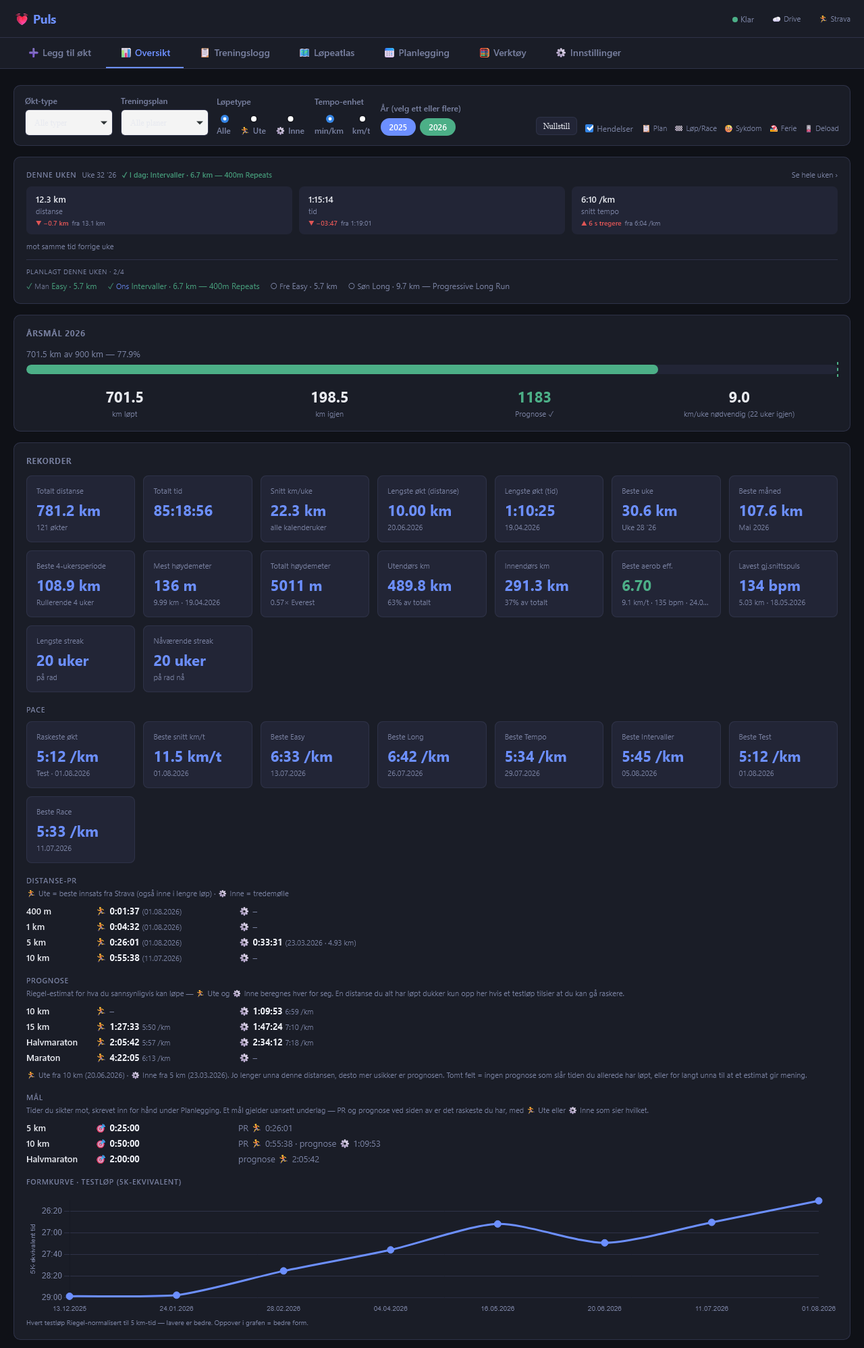
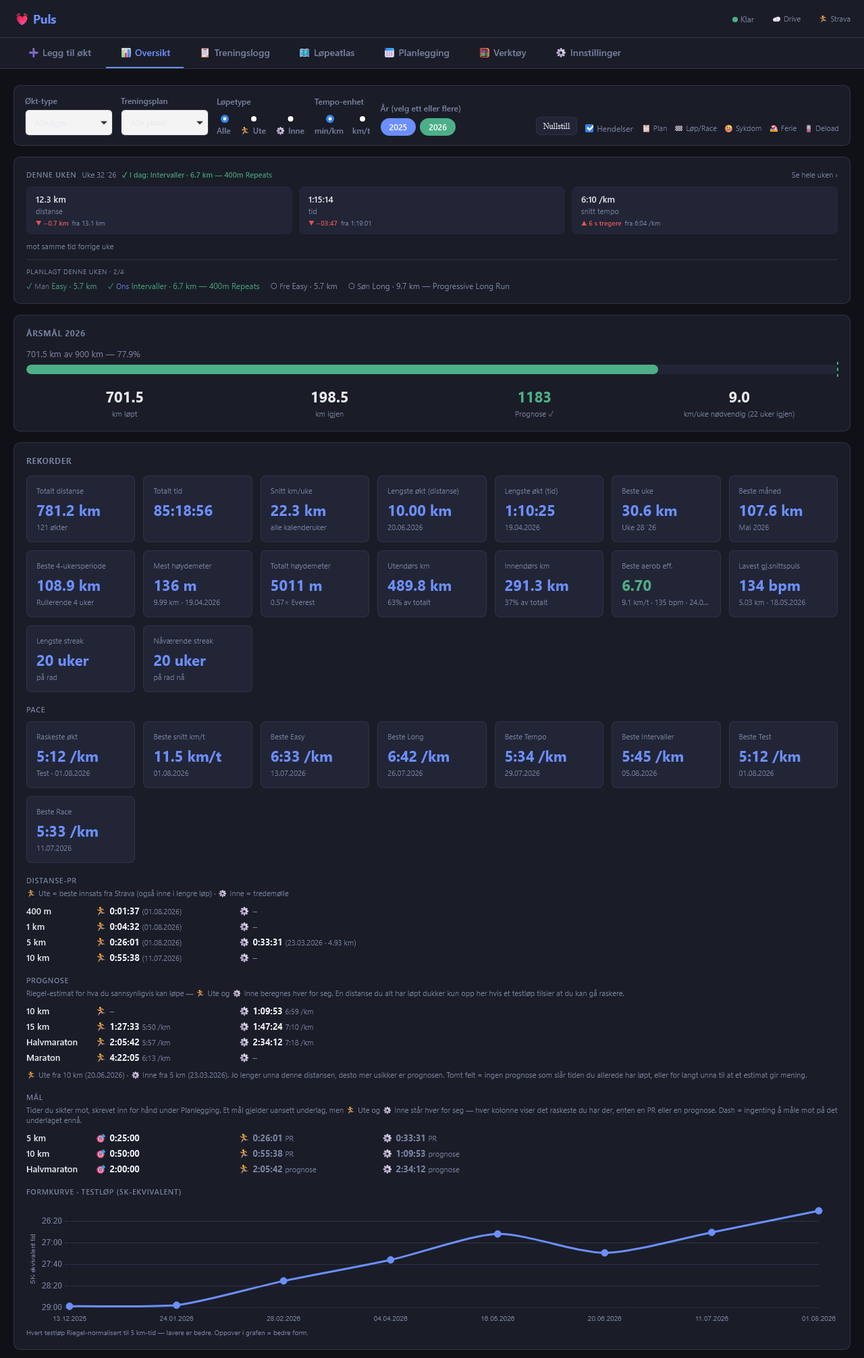
Mal: two venue columns, so an outdoor prognose is never hidden
He caught it live: "Mal only prognonese is shown for treadmill and not
outdoors even if they exsist on some of those."

The section collapsed both venues to whichever was faster. Wrong in a way that
mattered: his half-marathon row showed only the indoor prognose 2:13:08 and hid
the outdoor 2:40:28, so a sub-2:00 race goal read as 14 minutes away when
outdoors it was 41. It also broke the card's own rule - Distanse-PR and
Prognose both keep two independent venue columns precisely so nothing merges,
and this section quietly picked a winner.

Now the same two columns. One number per venue: the fastest thing that venue
has, labelled PR or prognose. A prognose only ever renders when it beats the
measured time, so "fastest" and "the prognose if there is one" are one rule -
but the label is what makes the row readable. Printing both would repeat the
two tables directly above rather than answer this section's own question.
An empty venue is dashed, matching venueCell and progCell for their reason.

Also padded every displayed goal through secsToHms. The Planlegging list said
25:00 while the dashboard said 0:25:00, and by his own argument for keeping the
leading zero - "is it 3 min 45 sec or 3 hours and 45 min" - the short form is
the ambiguous one. The input still accepts 25:00: lenient in, one form out.

The fixture grew from five distances to six. The first falsification of this
fix PASSED 53/53 - with a time in every Ute cell, leaking Inne's value into the
[…]

diff --git a/puls.html b/puls.html
@@ -837,7 +837,7 @@
       </div>
       <div id="goalTimeSection" style="display:none">
         <div style="font-size:11px;font-weight:600;color:var(--muted);text-transform:uppercase;letter-spacing:.06em;margin:18px 0 4px">Mål</div>
-        <div style="font-size:11px;color:var(--muted);margin-bottom:10px">Tider du sikter mot, skrevet inn for hånd under Planlegging. Et mål gjelder uansett underlag — PR og prognose ved siden av er det raskeste du har, med 🏃 Ute eller ⚙ Inne som sier hvilket.</div>
+        <div style="font-size:11px;color:var(--muted);margin-bottom:10px">Tider du sikter mot, skrevet inn for hånd under Planlegging. Et mål gjelder uansett underlag, men 🏃 Ute og ⚙ Inne står hver for seg — hver kolonne viser det raskeste du har der, enten en PR eller en prognose. Dash = ingenting å måle mot på det underlaget ennå.</div>
         <div id="goalTimeList"></div>
       </div>
       <div id="formkurveSection" style="display:none">
@@ -8682,35 +8682,45 @@ function renderDashboard() {
   // is the exact shape of every silent-data-loss bug the engineering audit turned up.
   const goalRows = BEST_EFFORT_DISTS.filter(d => goalTimes[d.key]);
   document.getElementById('goalTimeSection').style.display = goalRows.length ? '' : 'none';
-  // The goal itself is venue-agnostic — "sub-25 på 5K" is an ambition, not a treadmill setting. PR
-  // and prognose beside it are MEASUREMENTS, so they keep their venue icon: show the faster of the
-  // two and name which it was, rather than quietly merging the two populations DATA.md separates.
-  const fasterVenue = r => {
-    if (!r) return null;
-    if (r.ute && r.inne) return r.ute.t <= r.inne.t ? { icon: '🏃', t: r.ute.t } : { icon: '⚙', t: r.inne.t };
-    if (r.ute) return { icon: '🏃', t: r.ute.t };
-    return r.inne ? { icon: '⚙', t: r.inne.t } : null;
+  // The goal itself is venue-agnostic — "sub-25 på 5K" is an ambition, not a treadmill setting. What
+  // sits beside it are MEASUREMENTS, so they keep the same two independent venue columns as the two
+  // tables above. ⚠ The first version collapsed both venues to whichever was FASTER, which was wrong
+  // in a way that mattered: his half-marathon row showed only ⚙ 2:13:08 and hid 🏃 2:40:28, making a
+  // sub-2:00 race goal look 14 minutes away when outdoors it is 41. Never merge the two populations
+  // here either — the whole card exists to keep them apart (DATA.md "Belt vs GPS").
+  //
+  // One number per venue, not both PR and prognose: a prognose is only ever rendered when it BEATS
+  // the measured time (see `project`), so "the fastest thing this venue has" is the prognose when one
+  // exists and the PR otherwise. Printing both would repeat the two tables directly above rather than
+  // answer this section's own question, which is "how far is the goal from where I am".
+  const bestFor = (prEntry, progEntry) => {
+    if (prEntry && progEntry) return progEntry.t <= prEntry.t
+      ? { t: progEntry.t, kind: 'prognose' } : { t: prEntry.t, kind: 'PR' };
+    if (progEntry) return { t: progEntry.t, kind: 'prognose' };
+    return prEntry ? { t: prEntry.t, kind: 'PR' } : null;
   };
+  // Dashed when empty, exactly like `venueCell` and `progCell` above and for their reason: the three
+  // sections are adjacent and share a column layout, so a bare gap in one of them reads as a
+  // rendering fault rather than a deliberate omission.
+  const goalVenueCell = (icon, best) => !best
+    ? `<span class="t3-effort t3-venue t3-empty">${icon} –</span>`
+    : `<span class="t3-effort t3-venue">${icon} <b>${secsToHms(best.t)}</b> <span class="t3-date">${best.kind}</span></span>`;
+
   document.getElementById('goalTimeList').innerHTML = `<div class="top3-list">
       ${goalRows.map(d => {
         // computePerfCurve's rows carry label and km but no key, so match on label — unique, and it
         // needs no change to a pure function that a Python port has to be kept in step with.
-        const pr = fasterVenue(distPRs.find(r => r.key === d.key));
-        const pg = fasterVenue(prognose.find(r => r.label === d.label));
-        // An absent PR or prognose is OMITTED, not dashed. In the two tables above a dash states a
-        // fact about his running; here it would only repeat what those tables already said.
-        const ctx = [
-          pr && `PR ${pr.icon} ${secsToHms(pr.t)}`,
-          pg && `prognose ${pg.icon} ${secsToHms(pg.t)}`,
-        ].filter(Boolean).join(' · ');
-        // secsToHms, not secsToHmsShort: the two sections directly above render 0:26:01, and a row
-        // reading 25:00 next to them would look like a different kind of number rather than the same
-        // one. The leading 0: is a pre-existing quirk of this whole card, not something to fork here.
+        const pr = distPRs.find(r => r.key === d.key) || {};
+        const pg = prognose.find(r => r.label === d.label) || {};
+        // secsToHms, not secsToHmsShort: an unpadded h:mm:ss is ambiguous at the short end — "3:45"
+        // could be 3 min 45 s or 3 h 45 min — and the two sections directly above pad for the same
+        // reason. The whole card renders one way.
         return `
           <div class="top3-row">
             <span class="t3-label">${d.label}</span>
             <span class="t3-effort t3-venue t3-first">🎯 <b>${secsToHms(goalTimes[d.key])}</b></span>
-            <span class="t3-effort t3-venue">${ctx}</span>
+            ${goalVenueCell('🏃', bestFor(pr.ute, pg.ute))}
+            ${goalVenueCell('⚙', bestFor(pr.inne, pg.inne))}
           </div>`;
       }).join('')}
     </div>`;
@@ -10334,6 +10344,10 @@ const Settings = {
     if (!sel.options.length) sel.innerHTML = this.goalDists()
       .map(d => `<option value="${d.key}">${d.label}</option>`).join('');
 
+    // Lenient in, padded out: the field accepts `25:00` (and the help text teaches that form), but
+    // everything DISPLAYED renders as `0:25:00`. An unpadded h:mm:ss is ambiguous at the short end —
+    // "3:45" could be 3 min 45 s or 3 h 45 min — so the app reads back one way everywhere, here and
+    // on the dashboard. Same rule as the pace converter: accept either separator, emit one.
     const goals = Store.data.distanceGoals || {};
     const container = document.getElementById('distGoalList');
     // Listed from the full BEST_EFFORT_DISTS, not goalDists(): anything already stored must stay
@@ -10346,7 +10360,7 @@ const Settings = {
     container.innerHTML = rows.map(d => `
       <div style="display:flex;gap:12px;align-items:center">
         <span style="font-size:13px;min-width:96px;font-weight:600">${d.label}</span>
-        <span style="font-size:13px;flex:1">${secsToHmsShort(goals[d.key])}</span>
+        <span style="font-size:13px;flex:1">${secsToHms(goals[d.key])}</span>
         <button class="btn-secondary btn-sm" data-edit-dgoal="${d.key}" style="padding:4px 8px" title="Rediger">✏</button>
         <button class="btn-secondary btn-sm" data-del-dgoal="${d.key}" style="padding:4px 8px" title="Slett">🗑</button>
       </div>`).join('');
@@ -10357,7 +10371,7 @@ const Settings = {
         const key = btn.dataset.editDgoal;
         sel.value = key;
         sel.disabled = true;
-        document.getElementById('newDistGoalTime').value = secsToHmsShort(Store.data.distanceGoals[key]);
+        document.getElementById('newDistGoalTime').value = secsToHms(Store.data.distanceGoals[key]);
         this.editingDistGoalKey = key;
         document.getElementById('btnAddDistGoal').textContent = 'Oppdater';
         document.getElementById('btnCancelDistGoalEdit').style.display = '';
@@ -10390,7 +10404,7 @@ const Settings = {
     // on screen, so the field keeps the bad value and the message says what is wrong with it.
     if (!secs) return this._distGoalMsg('Skriv tiden som 25:00 eller 2:00:00.');
     if (secs / dist.km < GOAL_MIN_PACE_SECS)
-      return this._distGoalMsg(`${secsToHmsShort(secs)} på ${dist.label} er raskere enn verdensrekorden — sjekk tiden.`);
+      return this._distGoalMsg(`${secsToHms(secs)} på ${dist.label} er raskere enn verdensrekorden — sjekk tiden.`);
     if (!Store.data.distanceGoals) Store.data.distanceGoals = {};
     Store.data.distanceGoals[dist.key] = secs;
     this._clearDistGoalForm();

diff --git a/tests/test_goals.py b/tests/test_goals.py
@@ -54,25 +54,32 @@ def check(name, got, want):
         print(f"  FAIL {name}\n       got  {got!r}\n       want {want!r}")
 
 
-# Five distances, one per venue combination, so the icon in each row has a different reason to be
-# what it is. Goals are listed newest-distance-FIRST on purpose — the render must sort them.
-#   1 km  Ute only            5 km  both, Ute faster (26:01 vs 28:20)
-#   10 km Inne only           15 km both, Inne faster (1:26:40 vs 1:30:00)
-#   HM    neither → prognose alone
+# SIX distances, one per column-shape, so no two rows pass for the same reason. Goals are listed
+# longest-distance-FIRST on purpose — the render must sort them.
+#   1 km   Ute EMPTY, Inne PR        (Ute unreachable: 1 km is below half the nearest Ute anchor)
+#   5 km   PR in both, Ute faster
+#   10 km  Ute prognose, Inne PR
+#   15 km  PR in both, Inne faster   ← the exact shape that was collapsing to one column
+#   HM     prognose in both
+#   Maraton Ute prognose, Inne EMPTY (past INNE_MAX_PROGNOSE_KM)
+#
+# ⚠ The two EMPTY cases are load-bearing and were added after a falsification passed 53/53: with a
+# time in every Ute cell, leaking Inne's value into the Ute column changed nothing observable. A
+# venue-collapse bug needs an empty column on BOTH sides to be catchable.
 MATRIX = """() => {
   const belt = (dato, distanse, varighet) => ({
     id: dato, dato, uke: '2026-27', oktnavn: 'Belte', okttype: 'Easy', treningsplan: 'Egentrening',
     løpetype: 'treadmill', distanse, varighet, tempo: varighet / distanse, soner: [0,0,0,0,0],
   });
   localStorage.setItem('lpl_cache', JSON.stringify({
-    sessions: [belt('2026-07-01', 10, 3700), belt('2026-07-02', 5, 1700), belt('2026-07-03', 15, 5200)],
+    sessions: [belt('2026-07-01', 10, 3700), belt('2026-07-02', 5, 1700),
+               belt('2026-07-03', 15, 5200), belt('2026-07-04', 1, 320)],
     shoes: [], goals: {}, events: [], plannedSessions: [], settings: { zones: [] },
     bestEffortsTop3: {
-      '1k':  [{ t: 272,  d: '2026-06-14' }],
       '5k':  [{ t: 1561, d: '2026-06-14' }],
       '15k': [{ t: 5400, d: '2026-06-20' }],
     },
-    distanceGoals: { half: 7200, '15k': 5000, '10k': 3000, '5k': 1500, '1k': 240 },
+    distanceGoals: { marathon: 14400, half: 7200, '15k': 5000, '10k': 3000, '5k': 1500, '1k': 240 },
     lastUpdated: '' }));
 }"""
 
@@ -102,9 +109,11 @@ EMPTY = """() => {
     settings: { zones: [] }, lastUpdated: '' }));
 }"""
 
+# r.children, not querySelectorAll('span'): the goal cell wraps a <b> and each venue cell wraps a
+# nested .t3-date, so a flat span query would not line up with the four columns.
 ROWS = """() => [...document.querySelectorAll('#goalTimeList .top3-row')].map(r => {
-  const s = r.querySelectorAll('span');
-  return { label: s[0].textContent.trim(), goal: s[1].textContent.trim(), ctx: s[2].textContent.trim() };
+  const cell = i => r.children[i].textContent.trim().replace(/\\s+/g, ' ');
+  return { label: cell(0), goal: cell(1), ute: cell(2), inne: cell(3) };
 })"""
 
 
@@ -132,42 +141,51 @@ with sync_playwright() as pw:
 
     # Ascending distance, NOT the order the keys sit in the stored object.
     check("rows are sorted by distance, not entry order",
-          [r['label'] for r in rows], ['1 km', '5 km', '10 km', '15 km', 'Halvmaraton'])
+          [r['label'] for r in rows],
+          ['1 km', '5 km', '10 km', '15 km', 'Halvmaraton', 'Maraton'])
     # secsToHms, matching the two sections directly above it in the same card.
     check("goal is the stored time", [r['goal'] for r in rows],
-          ['🎯 0:04:00', '🎯 0:25:00', '🎯 0:50:00', '🎯 1:23:20', '🎯 2:00:00'])
+          ['🎯 0:04:00', '🎯 0:25:00', '🎯 0:50:00', '🎯 1:23:20', '🎯 2:00:00', '🎯 4:00:00'])
 
     by = {r['label']: r for r in rows}
-    # THE VENUE PICK — four rows, four different reasons for the icon.
-    check("Ute only  → 🏃 and the outdoor time",
-          by['1 km']['ctx'].startswith('PR 🏃 0:04:32'), True)
-    check("Inne only → ⚙ and the belt time",
-          by['10 km']['ctx'].startswith('PR ⚙ 1:01:40'), True)
-    check("both, Ute faster  → 🏃 0:26:01 (not the 0:28:20 belt run)",
-          by['5 km']['ctx'].startswith('PR 🏃 0:26:01'), True)
-    check("both, Inne faster → ⚙ 1:26:40 (not the 1:30:00 segment)",
-          by['15 km']['ctx'].startswith('PR ⚙ 1:26:40'), True)
-    check("no PR at all → the PR clause is omitted entirely",
-          'PR' in by['Halvmaraton']['ctx'], False)
+
+    # ⚠ THE REGRESSION THIS SECTION EXISTS FOR (reported live 2026-08-19).
+    # The first version collapsed both venues to whichever was FASTER, so a row with a time in each
+    # column printed only one of them. On his real data that hid 🏃 2:40:28 behind ⚙ 2:13:08 and made
+    # a sub-2:00 half look 14 minutes away when outdoors it was 41. Both columns, always.
+    check("both venues shown when both have a PR — 15 km",
+          (by['15 km']['ute'], by['15 km']['inne']), ('🏃 1:30:00 PR', '⚙ 1:26:40 PR'))
+    check("...and 5 km, where Ute is the faster one",
+          (by['5 km']['ute'], by['5 km']['inne']), ('🏃 0:26:01 PR', '⚙ 0:28:20 PR'))
+
+    # One number per venue: the fastest thing that venue has, LABELLED with which kind it is. A
+    # prognose only ever renders when it beats the measured time, so "fastest" and "prognose if one
+    # exists" are the same rule — but the label is what makes the row readable.
+    # Both empty directions, so neither column can quietly borrow from the other.
+    check("empty Ute is dashed, not filled from Inne", by['1 km']['ute'], '🏃 –')
+    check("...while Inne still carries its own PR", by['1 km']['inne'], '⚙ 0:05:20 PR')
+    check("empty Inne is dashed, not filled from Ute", by['Maraton']['inne'], '⚙ –')
+    check("...while Ute still carries its own projection",
+          by['Maraton']['ute'].endswith('prognose'), True)
+    check("Inne PR beside an Ute prognose — 10 km", by['10 km']['inne'], '⚙ 1:01:40 PR')
+    check("...with the projection in the Ute column", by['10 km']['ute'].endswith('prognose'), True)
+    check("no PR in either venue → both columns say prognose",
+          (by['Halvmaraton']['ute'].endswith('prognose'),
+           by['Halvmaraton']['inne'].endswith('prognose')), (True, True))
 
     # THE JOIN — prognose rows carry `label` where PR rows carry `key`, so a wrong match field on
-    # either side yields a silently empty clause rather than an error.
-    check("...but the prognose clause is there", by['Halvmaraton']['ctx'].startswith('prognose '), True)
-    check("prognose names a venue too",
-          any(i in by['Halvmaraton']['ctx'] for i in ('🏃', '⚙')), True)
-    # Cross-check one prognose figure against the card that already renders it, rather than against a
-    # number copied into this file: same distance, same value, or the join picked the wrong row.
-    prog_hm = pg.evaluate("""() => {
+    # either side yields a silently empty column rather than an error. Cross-checked against the
+    # function that already renders those numbers, not against values copied into this file.
+    prog = pg.evaluate("""() => {
       const r = computePerfCurve(Store.data.sessions, computeDistancePRs(Store.data.sessions))
                   .find(x => x.label === 'Halvmaraton');
-      const e = r.ute && (!r.inne || r.ute.t <= r.inne.t) ? r.ute : r.inne;
-      return secsToHms(e.t);
+      return { ute: secsToHms(r.ute.t), inne: secsToHms(r.inne.t) };
     }""")
-    check("prognose figure equals what computePerfCurve says", prog_hm in by['Halvmaraton']['ctx'], True)
-
-    # A dash in the tables above states a fact about his running. Here it would only repeat them.
-    check("nothing is dashed in this section",
-          '–' in pg.locator('#goalTimeList').inner_text(), False)
+    check("Ute figure equals computePerfCurve's Ute", prog['ute'] in by['Halvmaraton']['ute'], True)
+    check("Inne figure equals computePerfCurve's Inne", prog['inne'] in by['Halvmaraton']['inne'], True)
+    # Without this the two checks above would both pass on a collapsed row that printed one number
+    # twice — which is exactly the shape of the bug.
+    check("...and the two are genuinely different numbers", prog['ute'] != prog['inne'], True)
 
     # ── 2. No data yet: a goal still renders, with nothing beside it ────────────────────────
     print("== a goal set before there is anything to compare it to ==")
@@ -175,7 +193,7 @@ with sync_playwright() as pw:
     rows = pg.evaluate(ROWS)
     check("the row is there", [r['label'] for r in rows], ['5 km'])
     check("...with its goal", rows[0]['goal'], '🎯 0:25:00')
-    check("...and an empty context cell, not a dash", rows[0]['ctx'], '')
+    check("...and both venue columns dashed", (rows[0]['ute'], rows[0]['inne']), ('🏃 –', '⚙ –'))
     check("Distanse-PR itself has nothing to show", pg.locator('#distPRList').inner_text().startswith('Ingen'), True)
     check("...and there is no prognose either", pg.locator('#prognoseSection').is_visible(), False)
 
@@ -209,7 +227,11 @@ with sync_playwright() as pw:
 
     add('5k', '25:00')
     check("mm:ss is stored as seconds", goals(), {'5k': 1500})
-    check("...and rendered back in the list", '25:00' in pg.locator('#distGoalList').inner_text(), True)
+    # Typed short, displayed padded — "3:45" is ambiguous (3 min 45 s or 3 h 45 min?), so every
+    # surface that SHOWS a goal renders one way. The dashboard section is asserted the same above.
+    check("...and rendered back padded", '0:25:00' in pg.locator('#distGoalList').inner_text(), True)
+    check("...not in the short form he typed",
+          pg.locator('#distGoalList').inner_text().count('25:00'), 1)
     check("the input is cleared on success", pg.locator('#newDistGoalTime').input_value(), '')
 
     add('half', '2:00:00')
@@ -246,7 +268,9 @@ with sync_playwright() as pw:
     print("== edit in place, and delete ==")
     pg.click('[data-edit-dgoal="5k"]')
     pg.wait_for_timeout(80)
-    check("the time is prefilled", pg.locator('#newDistGoalTime').input_value(), '25:00')
+    # Padded, like everything else the app DISPLAYS. The field still accepts the short form on the
+    # way in — lenient in, one form out.
+    check("the time is prefilled, padded", pg.locator('#newDistGoalTime').input_value(), '0:25:00')
     check("the distance is locked while editing", pg.locator('#newDistGoalKey').is_disabled(), True)
     check("the button says Oppdater", pg.locator('#btnAddDistGoal').inner_text(), 'Oppdater')
     pg.fill('#newDistGoalTime', '24:30')

diff --git a/README.md b/README.md
@@ -42,7 +42,7 @@ A self-contained single-file running tracker — log a run in seconds and follow
     - A distance qualifies only within **±2 %** of the nominal length, so the label always means what it says — an empty cell beats a wrong one
     - Outdoor runners-up aren't mirrored here; Strava already shows the full ranking
   - **Prognose** — Riegel projections for the distances you *haven't* run yet, in the same two columns and **anchored separately per venue**: 🏃 Ute answers "what could I race?", ⚙ Inne "what could I do on the belt?". Each prefers a maximal effort — a Test or Race in that venue — and falls back to your measured best there. The indoor column earns its place because roughly half the year every run is indoors, and an outdoor-only projection would sit frozen on last season's efforts all winter while your actual fitness moved. Indoor stops at a half marathon; a treadmill marathon estimate has no use. Each column names its anchor and date once, so a stale anchor is obvious at a glance, and the section hides entirely when there's nothing to project
-  - **🎯 Mål** — the target times you set under Planlegging, each on a row with the PR you actually have and the prognose you're trending toward, so "where I want to be" reads next to "where I am". One row per goal only, so the section stays short; a distance with no PR or no prognose simply shows fewer numbers rather than a dash. The goal itself covers both venues, while the PR and prognose beside it show the faster of 🏃 Ute / ⚙ Inne and say which. Nothing is derived from it — no countdown, no gap, no verdict; hidden entirely until you set one
+  - **🎯 Mål** — the target times you set under Planlegging, each on a row beside where you actually are, so "where I want to be" reads next to "where I am". One row per goal only, so the section stays short. The goal itself covers both venues — an ambition isn't a treadmill setting — but what sits beside it are measurements, so it keeps the **same two 🏃 Ute / ⚙ Inne columns** as the tables above, each showing the fastest thing that venue has and saying whether it's a **PR** or a **prognose**. A venue with nothing yet shows `–`. Nothing is derived from a goal — no countdown, no gap, no verdict; the section is hidden entirely until you set one
   - **Formkurve** — every Test/Race Riegel-normalised to a 5K-equivalent time and plotted as one fitness curve over time, so each new test extends the curve instead of living as an isolated PR. Up = fitter; appears once 2+ tests exist
 - **Innsikter** — a pool of candidates ranked by priority and recency, up to 6 shown — **fewer when fewer are worth showing**. Every card has to be an actual *event*, never filler, so a thin row means nothing noteworthy happened rather than that something was crowded out.
   - **Milestones & PRs** — km milestones (a passed one for its first 30 days only, after which it's a statistic and Rekorder owns it; an upcoming one once it's within reach, measured against your **last 4 weeks' volume** so "near" means about a month away at your current running, promoted at half that) · **fresh distance-PR** (14 days, naming the venue — "Ny 5 km-PR 🏃 ute!" — and reading the same computation the Rekorder card does, so the two can never disagree) · fastest Easy run (30 days, then Rekorder's tile carries it permanently)
@@ -119,7 +119,7 @@ An **Alle · Fullførte · Gjenstår** filter switches between every badge, the 
 
 ### Planning (Planlegging)
 - **Yearly goals (Mål → Årsmål)** — set a km target per year, tracked on the dashboard; ✏ opens a proper edit mode (the year locks, the button switches to **Oppdater**, and an **Avbryt** button appears to back out)
-- **Target times (Mål → Tidsmål per distanse)** — the time you're aiming for on a distance, written as `25:00` or `2:00:00`. Each one gets a row in a **🎯 Mål** section under Distanse-PR and Prognose on the dashboard, next to your current PR and the Riegel estimate — so what you want sits beside what you've done and what you're trending toward. Only distances you've set a goal for appear, and a missing PR or prognose is simply left out rather than dashed. Available from 1 km up, the same floor Prognose uses. A goal covers both venues (an ambition isn't a treadmill setting), while the PR and prognose beside it keep their 🏃 Ute / ⚙ Inne icon, showing the faster of the two. Nothing is computed from a goal — no countdown, no "X to go"; it's a note that happens to sit in the right place. ✏/🗑 edit and remove, same as Årsmål
+- **Target times (Mål → Tidsmål per distanse)** — the time you're aiming for on a distance, written as `25:00` or `2:00:00`. Each one gets a row in a **🎯 Mål** section under Distanse-PR and Prognose on the dashboard, so what you want sits beside what you've done and what you're trending toward. Only distances you've set a goal for appear. Available from 1 km up, the same floor Prognose uses. A goal covers both venues (an ambition isn't a treadmill setting), but the row keeps the two 🏃 Ute / ⚙ Inne columns — each showing the fastest thing that venue has, labelled **PR** or **prognose**, and `–` when there's nothing yet. Type `25:00` or `2:00:00`; everything displays padded as `0:25:00`, since `3:45` alone could be 3 min 45 s or 3 h 45 min. Nothing is computed from a goal — no countdown, no "X to go"; it's a note that happens to sit in the right place. ✏/🗑 edit and remove, same as Årsmål
 - **Hendelser** — events (Plan / Løp/Race / Sykdom / Ferie / Deload / Taper / Annet) shown as vertical markers on the charts; events with an end date render as spans — anomaly periods (Sykdom/Ferie/Deload/Taper/Annet) get a shaded fill, while Plan events draw start/end boundary lines only (a multi-week plan fill would tint the whole chart); the Hendelser chart toggle defaults off on small screens where the markers crowd the charts; Plan events can carry a total-km target (headline metric — steadier than weekly, since deload/taper weeks legitimately vary) plus optional weekly km/run targets, and drive the Treningsblokker cards; ✏ opens the event in the form for in-place editing (e.g. adding an end date after the fact) — the button flips to "Lagre endringer" with an Avbryt escape
 - **Sko** — manage shoe list with km totals; set an optional **km wear limit** and **obtained month** per shoe (via **Rediger** on existing shoes) so each card shows its **age** (e.g. "Kjøpt jun 2024 · 1 år 1 mnd") next to the km-wear bar; **Pensjonér** a shoe to hide it from the form dropdown while keeping historical data; **Aktiver** restores it; used in the log filter and form dropdown. A **Standard sko** row picks a default shoe per venue (*Utendørs* / *Tredemølle*) — the log form pre-selects that shoe by run type (and swaps when you toggle Ute↔Inne), still overridable per session
 - **Løp & Races** — lists all race events with matched session stats. A race event can carry an optional **Distanse (km)**, which shows on upcoming races (where the stats line was otherwise blank), is named in the race-countdown insight, and lets the session match pick the run *closest to that distance* rather than the longest one nearby. It also appears in the **Hendelser** row itself, in the space a race's missing end date leaves — "Runna 5K test" carries the distance in its name, "adidas x Anton Sport: Social Run" doesn't, and since the field steers which run gets matched, a blank one is worth being able to see. Selecting **Løp/Race** in Hendelser swaps the Sluttdato field for Distanse — a race is one day. Both Hendelser and Løp & Races show the **10 most recent** by default with a **▾ Vis alle (N)** / **▴ Vis færre** toggle when there are more

diff --git a/DATA.md b/DATA.md
@@ -74,9 +74,12 @@ Riegel projections **only** for distances with no actual time in *either* column
 
 `{ "5k": 1500, "10k": 3000, "half": 7200 }` — **seconds**, keyed by `BEST_EFFORT_DISTS.key`. The only number on the Rekorder card that Puls does not measure: hand-entered under **Planlegging → Mål**, and never derived from, or fed back into, anything.
 
-- **A goal is venue-agnostic; the numbers beside it are not.** "Sub-25 på 5K" is an ambition, not a treadmill setting, so one goal covers both venues. But the PR and prognose printed next to it are measurements, so each shows the **faster** of 🏃 Ute / ⚙ Inne **with that venue's icon** — the row states which population the number came from rather than quietly merging the two (see *Belt vs GPS*).
-- **Only distances with a goal get a row**, unlike Distanse-PR which always lists all seven. An absent PR or prognose is **omitted, not dashed**: in the two tables above a dash states a fact about the running, whereas here it would only repeat what those tables already said. No goals at all → the section is not rendered.
+- **A goal is venue-agnostic; the numbers beside it are not.** "Sub-25 på 5K" is an ambition, not a treadmill setting, so one goal covers both venues. What sits beside it are measurements, so the row keeps the **same two independent 🏃 Ute / ⚙ Inne columns** as the two tables above — nothing is merged here either (see *Belt vs GPS*).
+- **One number per venue: the fastest thing that venue has, labelled `PR` or `prognose`.** A prognose only ever renders when it beats the measured time, so "fastest" and "the prognose if there is one" are the same rule. Printing both would repeat the two tables directly above instead of answering this section's question, which is *how far is the goal from where I am*.
+  - ⚠ **The first version collapsed the two venues to whichever was faster, and it was wrong in a way that mattered.** A half-marathon row showed only ⚙ 2:13:08 and hid 🏃 2:40:28, so a sub-2:00 *race* goal read as 14 minutes away when outdoors it was 41. Fixed 2026-08-19, the day it shipped. Do not re-collapse them.
+- **Only distances with a goal get a row**, unlike Distanse-PR which always lists all seven. A venue with nothing at all renders `–`, matching `venueCell`/`progCell` above and for their reason: the three sections are adjacent and share a column layout, so a bare gap reads as a rendering fault rather than a deliberate omission. No goals at all → the section is not rendered.
 - **Goals start at 1 km**, mirroring `computePerfCurve`'s own `km >= 1`: 400 m is a segment inside a longer run, not something you train six months toward, and a distance you could set a goal for but never get a prognose for would be two different answers to one question. The *render* applies no such floor — the picker enforces it, so anything already stored stays visible and deletable.
+- **Lenient in, one form out.** The field accepts `25:00` (and its help text teaches that), but everything *displayed* — the dashboard row, the Planlegging list, the edit prefill, the rejection message — renders through `secsToHms` as `0:25:00`. An unpadded `h:mm:ss` is ambiguous at the short end: `3:45` could be 3 min 45 s or 3 h 45 min.
 - **Entry is validated and refusals are visible.** Parsed with `strictHmsToSecs` (so `29:75` is rejected rather than becoming `30:15`), then checked against `GOAL_MIN_PACE_SECS = 120` — the unit-slip catcher for `25:00` typed on the Maraton row, which parses perfectly and means nothing. A rejected entry **keeps what was typed**; cleared and never-filled look identical on screen.
 - **Deliberately not included:** a target date (dates belong to 🏁 events, which already carry their own targets), and any gap/percentage arithmetic — the row shows the three numbers and leaves the subtraction to the reader.
 
